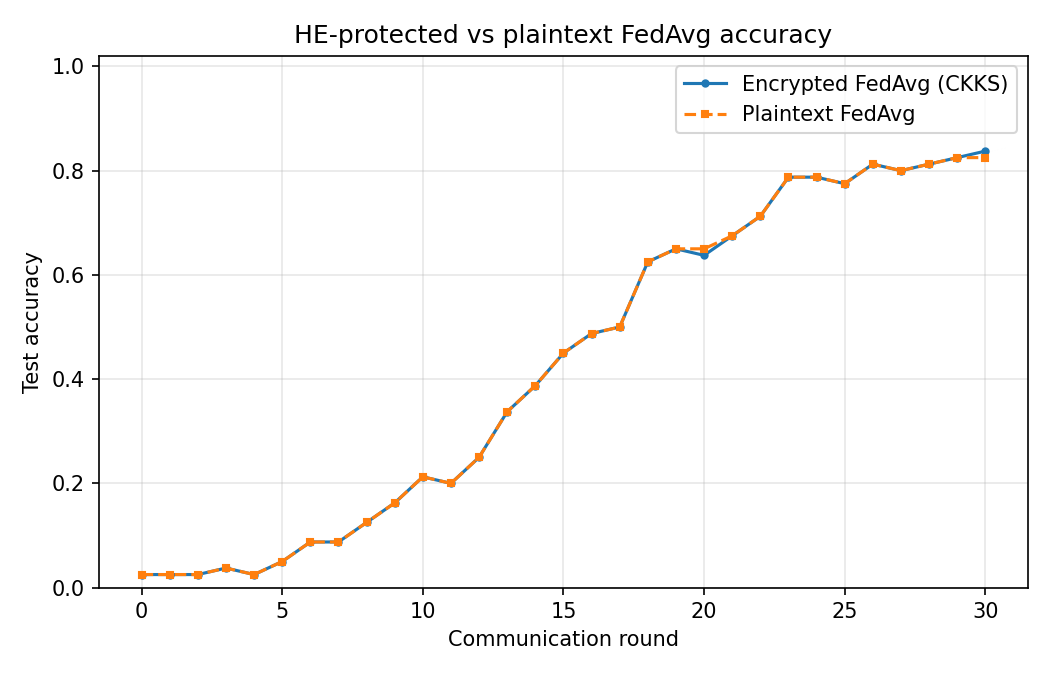
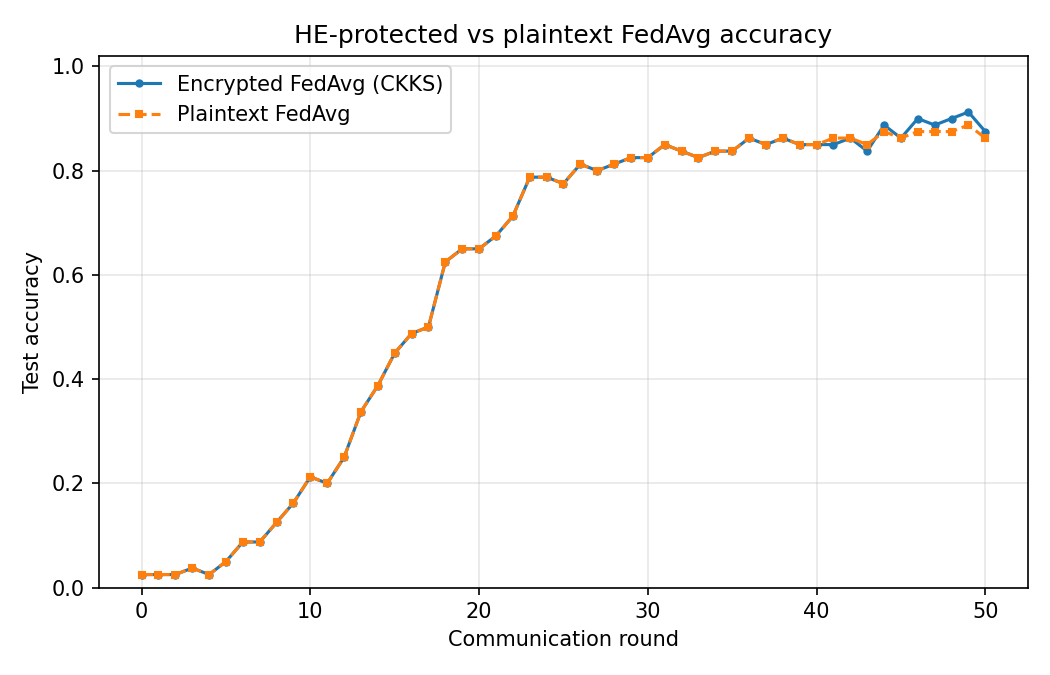
feat(he): measure CKKS error and runtime, and run the full 50 rounds
Quantify why the homomorphic-encryption defence costs almost no accuracy: the
only difference from plaintext FedAvg is CKKS's fixed-point rounding, whose
relative L2 error against the exact plaintext aggregate is 1.6e-7. Also report
the total CKKS wall-clock (11.6s over the run: 8.8 encrypt + 2.3 aggregate +
0.5 decrypt) as the 'time consuming' axis the assignment asks for, and run the
encrypted trajectory for the full 50 rounds so its curve reaches the same
plateau as plaintext (0.875 vs 0.8625, gap <= 0.025).

diff --git a/experiments/run_defense.py b/experiments/run_defense.py
@@ -39,13 +39,14 @@ import torch
 sys.path.insert(0, str(Path(__file__).resolve().parent.parent))
 
 from src import he_utils
-from src.data_utils import denormalize, load_orl_dataset
+from src.data_utils import denormalize, load_orl_dataset, split_iid, train_test_split
 from src.dlg_attack import compute_real_gradients, dlg_attack, idlg_label_inference
 from src.federated import get_device, run_federated_learning_he
+from src.fl_client import FLClient
 from src.metrics import compute_psnr
 from src.models import LeNet
 
-HE_ROUNDS = 30
+HE_ROUNDS = 50  # match the plaintext FL run so the encrypted curve reaches the same plateau
 NUM_CLASSES = 40
 DEMO_INDEX = 5
 
@@ -84,6 +85,41 @@ def part_a_convergence(device):
     return he
 
 
+def _ckks_precision(device="cpu"):
+    """Relative L2 error of one CKKS-aggregated round vs the exact plaintext FedAvg.
+
+    Quantifies *why* HE costs ~no accuracy: the only difference from plaintext FedAvg
+    is CKKS's tiny fixed-point rounding. We train one real round per client, then
+    compare the encrypted->aggregated->decrypted weighted average against the exact
+    plaintext weighted average.
+    """
+    full = load_orl_dataset()
+    train_set, _ = train_test_split(full, seed=0)
+    shards = split_iid(train_set, num_clients=4, seed=0)
+    init = {k: v.detach().cpu().clone() for k, v in LeNet(NUM_CLASSES).state_dict().items()}
+    deltas, counts = [], []
+    for i, shard in enumerate(shards):
+        client = FLClient(i, shard, LeNet, device, num_classes=NUM_CLASSES)
+        client.update_model(init)
+        delta, n = client.train_one_round(local_epochs=1, lr=0.01)
+        deltas.append({k: v.detach().cpu() for k, v in delta.items()})
+        counts.append(n)
+    total = sum(counts)
+    weights = [n / total for n in counts]
+    plain = {k: sum(w * d[k] for w, d in zip(weights, deltas)) for k in init}
+
+    ctx = he_utils.create_he_context()
+    shapes = he_utils.get_shapes(init)
+    enc = [he_utils.encrypt_gradients(d, ctx) for d in deltas]
+    dec = he_utils.decrypt_gradients(he_utils.aggregate_encrypted(enc, weights=weights), shapes)
+
+    pf = torch.cat([plain[k].flatten() for k in init])
+    decf = torch.cat([dec[k].flatten() for k in init])
+    rel = float((decf - pf).norm() / pf.norm())
+    max_abs = float((decf - pf).abs().max())
+    return rel, max_abs
+
+
 def part_c_tradeoff(he):
     timing = pd.DataFrame(he["timing"])
     history = pd.DataFrame(he["history"])
@@ -93,15 +129,33 @@ def part_c_tradeoff(he):
 
     comm = he["comm"]
     ratio = comm["ciphertext_bytes"] / comm["plaintext_bytes"]
+    # Total CKKS wall-clock across the run (the "time consuming" axis the PDF asks for).
+    total_enc = float(timing["encrypt"].sum())
+    total_agg = float(timing["aggregate"].sum())
+    total_dec = float(timing["decrypt"].sum())
+    total_he = total_enc + total_agg + total_dec
+    rel_err, max_err = _ckks_precision()
     pd.DataFrame([{
         "plaintext_size_bytes": comm["plaintext_bytes"],
         "ciphertext_size_bytes": comm["ciphertext_bytes"],
         "ratio": ratio,
+        "total_he_seconds": total_he,
+        "total_encrypt_s": total_enc,
+        "total_aggregate_s": total_agg,
+        "total_decrypt_s": total_dec,
+        "ckks_rel_l2_error": rel_err,
+        "ckks_max_abs_error": max_err,
     }]).to_csv(METRICS / "he_communication.csv", index=False)
     print(
         f"[defense] communication per client update: plaintext={comm['plaintext_bytes']/1024:.0f} KB "
         f"ciphertext={comm['ciphertext_bytes']/1024:.0f} KB ({ratio:.1f}x)"
     )
+    print(
+        f"[defense] total CKKS wall-clock over {len(timing)} rounds: {total_he:.1f}s "
+        f"(encrypt {total_enc:.1f}s + aggregate {total_agg:.1f}s + decrypt {total_dec:.1f}s)"
+    )
+    print(f"[defense] CKKS aggregation precision: rel L2 error={rel_err:.2e}, max abs error={max_err:.2e} "
+          f"(why HE costs ~no accuracy)")
 
     plt.figure(figsize=(8, 4.5))
     rounds = timing["round"]